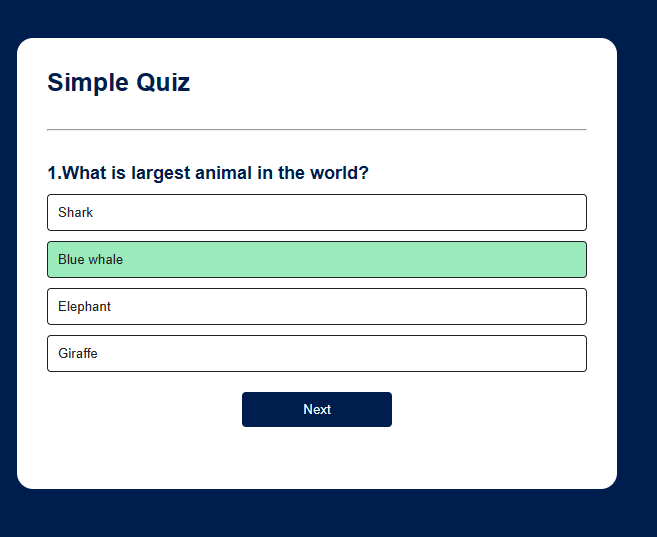
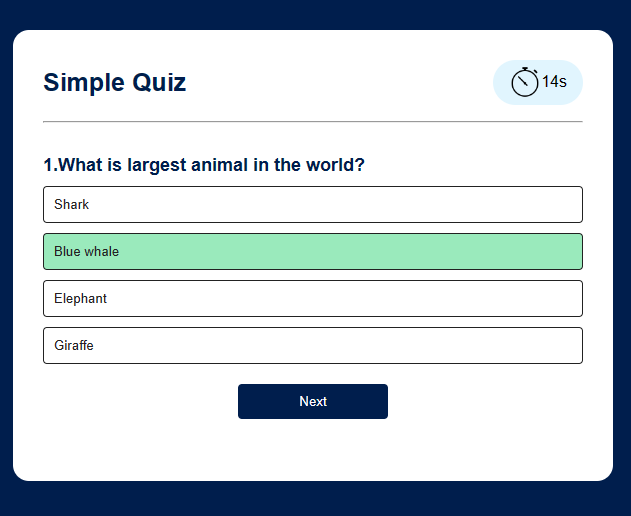
Updated screenshots

Changed region(s): [[0.0, 0.031, 0.9937, 0.9302], [0.0602, 0.124, 0.3011, 0.186]]

diff --git a/index.js b/index.js
@@ -136,10 +136,8 @@ function selectAnswer(e){
              button.classList.add("correct");
          }
             
-     });
-}
-button.disabled = true;
-nextBtn.style.display = "block";
+    checkAnswer();
+    nextBtn.style.display ="block";
     // Clear the timer 
     clearInterval(timerInterval);
 }
